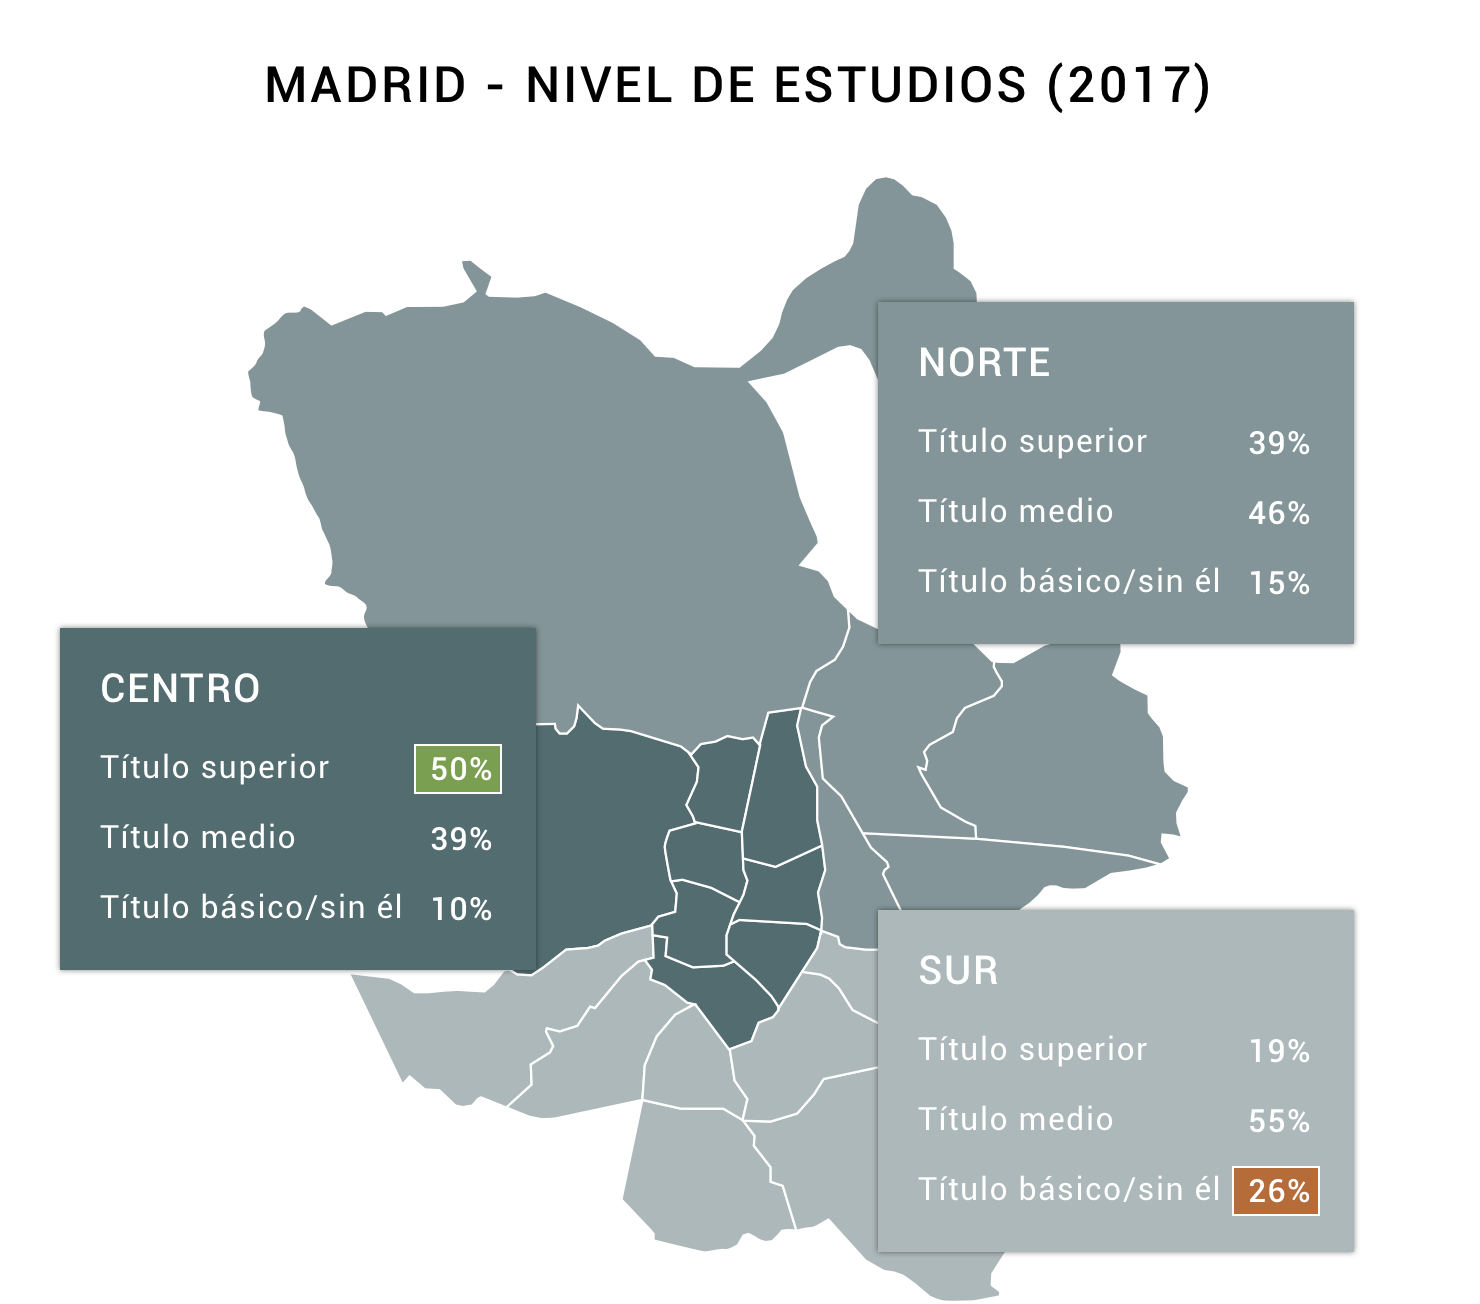
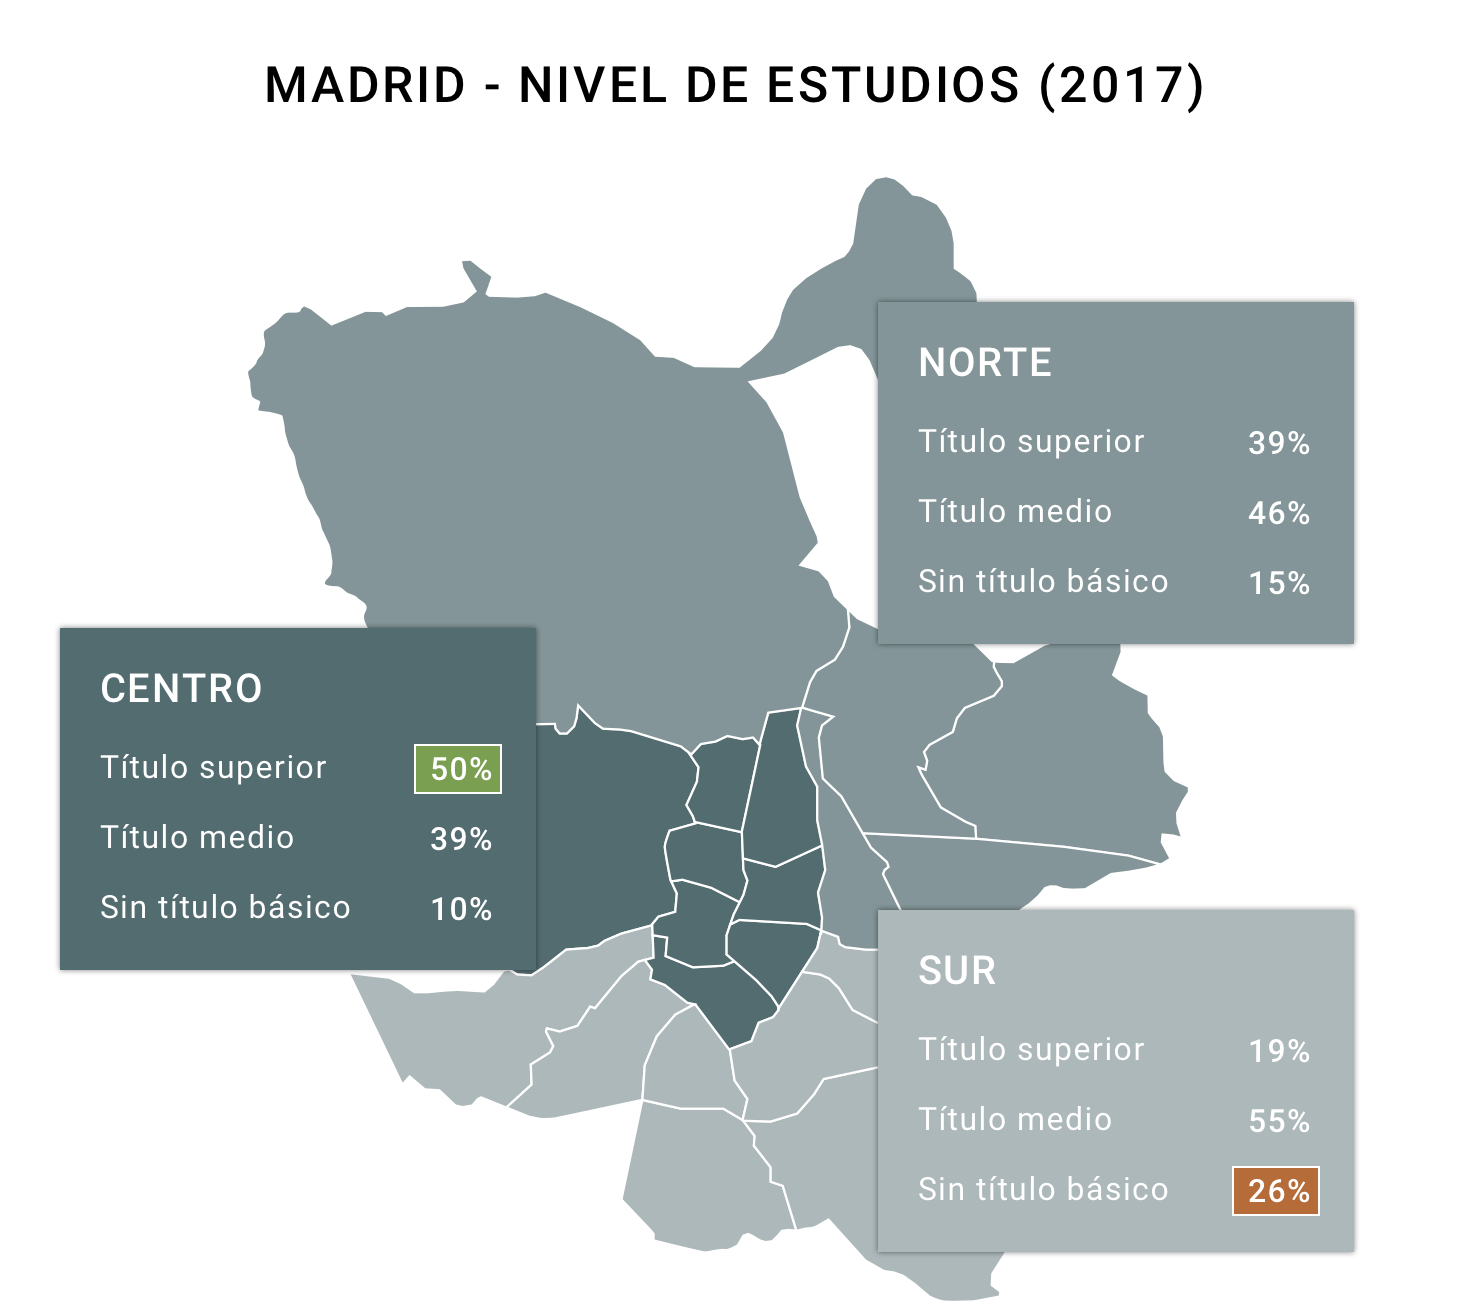
update legends for maps

diff --git a/index.html b/index.html
@@ -180,7 +180,7 @@
           </p>
           <div class="body-text">
               <img class="body-image" src="img/estudios-bcn.png" alt="">
-              <p class="city-quote">El grupo "Título medio" incluye bachillerato elemental (ESO) y bachillerato superior (BUP). El grupo "Título Superior" engloba estudios universitarios y CFGS grado superior. Fuente: <a href="http://www.bcn.cat/estadistica/castella/" target="_blank">Ajuntament de Barcelona</a>
+              <p class="city-quote">El grupo Título básico/sin él incluye a las personas sin estudios o que han completado el primer ciclo educativo. El grupo Título medio engloba el graduado escolar, la Formación Profesional, el Bachillerato Superior y otros títulos medios. El grupo Título superior incluye todos los títulos universitarios o estudios superiores. La categoría No consta no está reflejada en el análisis. Fuente: <a href="http://www.bcn.cat/estadistica/castella/" target="_blank">Ajuntament de Barcelona</a>
               </p>
           </div>
           <p class="body-text">
@@ -188,7 +188,7 @@
           </p>
           <div class="body-text">
               <img class="body-image" src="img/estudios-madrid.png" alt="">
-              <p class="city-quote">El grupo "Título medio" incluye bachillerato elemental (ESO), bachillerato superior (BUP). formación profesional y otros títulos medios. El "Título Superior" engloba Diplomado universitario, Arquitecto o Ingeniero técnico, Licenciado universitario, Titulado en estudios superiores no universitario y Doctorado o Estudios de postgrado. Fuente: <a href="http://www.madrid.es/portales/munimadrid/es/Inicio/El-Ayuntamiento/Estadistica?vgnextfmt=default&vgnextchannel=8156e39873674210VgnVCM1000000b205a0aRCRD&vgnextoid=8156e39873674210VgnVCM1000000b205a0aRCRD" target="_blank">Ayuntamiento de Madrid</a>. Datos de enero de 2017
+              <p class="city-quote">El grupo Sin título básico incluye a las personas sin formación o que no han completado el primer ciclo educativo. El grupo Título medio engloba el graduado escolar, la Formación Profesional, el Bachillerato Superior y otros títulos medios. El grupo Título superior incluye todos los títulos universitarios o estudios superiores. La categoría No consta no está reflejada en el análisis.  Fuente: <a href="http://www.madrid.es/portales/munimadrid/es/Inicio/El-Ayuntamiento/Estadistica?vgnextfmt=default&vgnextchannel=8156e39873674210VgnVCM1000000b205a0aRCRD&vgnextoid=8156e39873674210VgnVCM1000000b205a0aRCRD" target="_blank">Ayuntamiento de Madrid</a>. Datos de enero de 2017 para mayores de 25 años.
               </p>
           </div>
 
